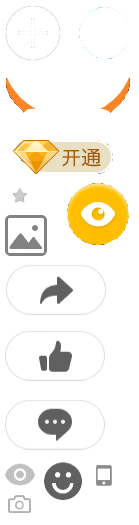
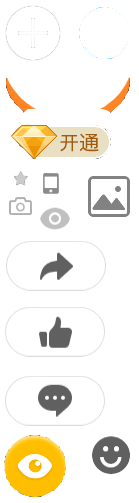
change
change

diff --git a/css/page/zone.css b/css/page/zone.css
@@ -1,0 +1,129 @@
+@charset "utf-8";
+/* CSS Document */
+.zone_page{
+	position: absolute;
+	top:0px;
+	left: 0px;
+	bottom:0px;
+	right:0px;
+	background-color: #ecedf1;
+}
+.zone_page .head_module{
+	z-index: 3;
+	background-color: rgba(18,183,245,0);
+}
+.zone_page #zoneMain{
+	position: absolute;
+	top:0px;
+	bottom: 0px;
+	left: 0px;
+	right: 0px;
+}
+.zone_page #zoneTopFrame{
+	width: 750px;
+	height: 640px;
+	position: relative;
+}
+.zone_page #zoneHeadFrame{
+	position: absolute;
+	top:372px;
+	left: 41px;
+}
+.zone_page #zoneHeadFrame .head{
+	width: 134px;
+	height: 134px;
+	border-radius: 134px;
+	position: absolute;
+	top: 0px;
+	left: 0px;
+}
+.zone_page #zoneHeadFrame .headBg{
+	position: absolute;
+    top: 94px;
+    left: -1px;
+}
+.zone_page #zoneHeadFrame .headFont{
+	position: absolute;
+    top: 124px;
+    left: 16px;
+}
+.zone_page .view{
+	position: absolute;
+	right:237px;
+	bottom: 130px;
+}
+.zone_page .starFrame{
+	position: absolute;
+	left:457px;
+	bottom: 114px;
+}
+.zone_page .zoneIcon{
+	float: left;
+	margin-right: 4px;
+}
+.zone_page #zoneNavFrame{
+	position: absolute;
+	left: 0px;
+	bottom:0px;
+	width: 100%;
+	height: 80px;
+	background-color: rgba(0,0,0,0.5);
+}
+.zone_page #zoneNavFrame .nav{
+	float: left;
+	color: #fff;
+	line-height: 80px;
+	font-size: 26px;
+	padding:0px 53px; 
+}
+.zone_page #zoneNavFrame .line{
+	height: 24px;
+	width: 1px;
+	float: left;
+	position: relative;
+	top:29px;
+	background-color: #fff;
+}
+.zone_page #zoneTextFrame{
+	height: 86px;
+	border-left: 1px solid #32324a;
+	position: absolute;
+	left:533px;
+	bottom:110px;
+}
+.zone_page #zoneTextFrame .text{
+	color: #fff;
+	font-size: 23px;
+	margin-left: 18px;
+	line-height: 43px;
+}
+.zone_page #zoneTextFrame .text .yellow{
+	color: #ffa800;
+}
+.zone_page #zoneBottomFrame{
+	height: 90px;
+	width: 100%;
+	border-bottom: 1px solid #dcdcdc;
+}
+.zone_page #talkButton{
+	float: left;
+	width: 651px;
+	height: 89px;
+	background-color: #fff;
+	border-right:1px solid #dcdcdc;
+	font-size: 26px;
+	line-height: 89px;
+	text-indent: 17px;
+}
+.zone_page #picButton{
+	width:99px;
+	height: 89px;
+	background-color: #f5f5f5;
+	float: left;
+	position: relative;
+}
+.zone_page #picButton .pic{
+	position: absolute;
+	top:25px;
+	left: 28px;
+}

diff --git a/view/zone_page.html b/view/zone_page.html
@@ -14,12 +14,40 @@
 	</div>
 	<div id="zoneMain">
 		<div id="zoneRoll">
-			<div id="topFrame">
-				<div id="headFrame">
+			<div id="zoneTopFrame" style="background-image:url(img/zoneBg.jpg)">
+				<div id="zoneHeadFrame">
 					<div class="zoneIcon headBg"></div>
-					<img src="" class="head"/>
+					<img src="img/head.jpg" class="head"/>
 					<div class="zoneIcon headFont"></div>
 				</div>
+				<div class="zoneIcon view"></div>
+				<div class="starFrame">
+					<div class="zoneIcon star"></div> 
+					<div class="zoneIcon star"></div>
+					<div class="zoneIcon star"></div>
+					<div class="clear"></div>
+				</div>
+				<div id="zoneTextFrame">
+					<div class="text">今日访客 <span class="yellow">0</span></div>
+					<div class="text">总浏览量 <span class="yellow">7838</span></div>
+				</div>
+				<div id="zoneNavFrame">
+					<div class="nav">相册</div>
+					<div class="line"></div>
+					<div class="nav">说说</div>
+					<div class="line"></div>
+					<div class="nav">个性化</div>
+					<div class="line"></div>
+					<div class="nav">@ 与我相关</div>
+					<div class="clear"></div>
+				</div>
+			</div>
+			<div id="zoneBottomFrame">
+				<div id="talkButton">说点什么吧</div>
+				<div id="picButton">
+					<div class="zoneIcon pic"></div>
+				</div>
+				<div class="clear"></div>
 			</div>
 			
 		</div>

diff --git a/css/module/zone.css b/css/module/zone.css
@@ -1,0 +1,34 @@
+.zoneIcon{
+	background-image: url(../../img/zone.png);
+	background-repeat: no-repeat;
+}
+.zoneIcon.view{
+	width: 63px;
+    height: 63px;
+    background-position: -3px -435px;
+}
+.zoneIcon.headBg{
+	width: 135px;
+    height: 35px;
+    background-position: 0px -78px;
+}
+.zoneIcon.headFont{
+	width: 100px;
+    height: 37px;
+    background-position: -11px -125px;
+}
+.zoneIcon.star{
+	width: 13px;
+    height: 13px;
+    background-position: -14px -172px;
+}
+.zoneIcon.pic{
+	width: 45px;
+    height: 40px;
+    background-position: -87px -177px;
+}
+.zoneIcon.add{
+	width: 55px;
+    height: 56px;
+    background-position: -6px -5px;
+}

diff --git a/index.html b/index.html
@@ -66,6 +66,8 @@
         <link href="css/page/care.css" rel="stylesheet" rev="stylesheet" type="text/css"/>
         <link href="css/page/group.css" rel="stylesheet" rev="stylesheet" type="text/css"/>
         <link href="css/page/public.css" rel="stylesheet" rev="stylesheet" type="text/css"/>
+        <link href="css/module/zone.css" rel="stylesheet" rev="stylesheet" type="text/css"/>
+        <link href="css/page/zone.css" rel="stylesheet" rev="stylesheet" type="text/css"/>
     </head>
     <body>
 

diff --git a/module/zone.html b/module/zone.html
@@ -1,0 +1,14 @@
+<div class="zone_module">
+	<div class="top">
+		<img src="img/head.jpg"/>
+		<div class="name">某人</div>
+		<div class="time"></div>
+	</div>
+	<div class="middle"></div>
+	<div class="bottom">
+		<div class="zoneIcon copyButton"></div>
+		<div class="zoneIcon praiseButton"></div>
+		<div class="zoneIcon talkButton"></div>
+		<div class="clear"></div>
+	</div>
+</div>
